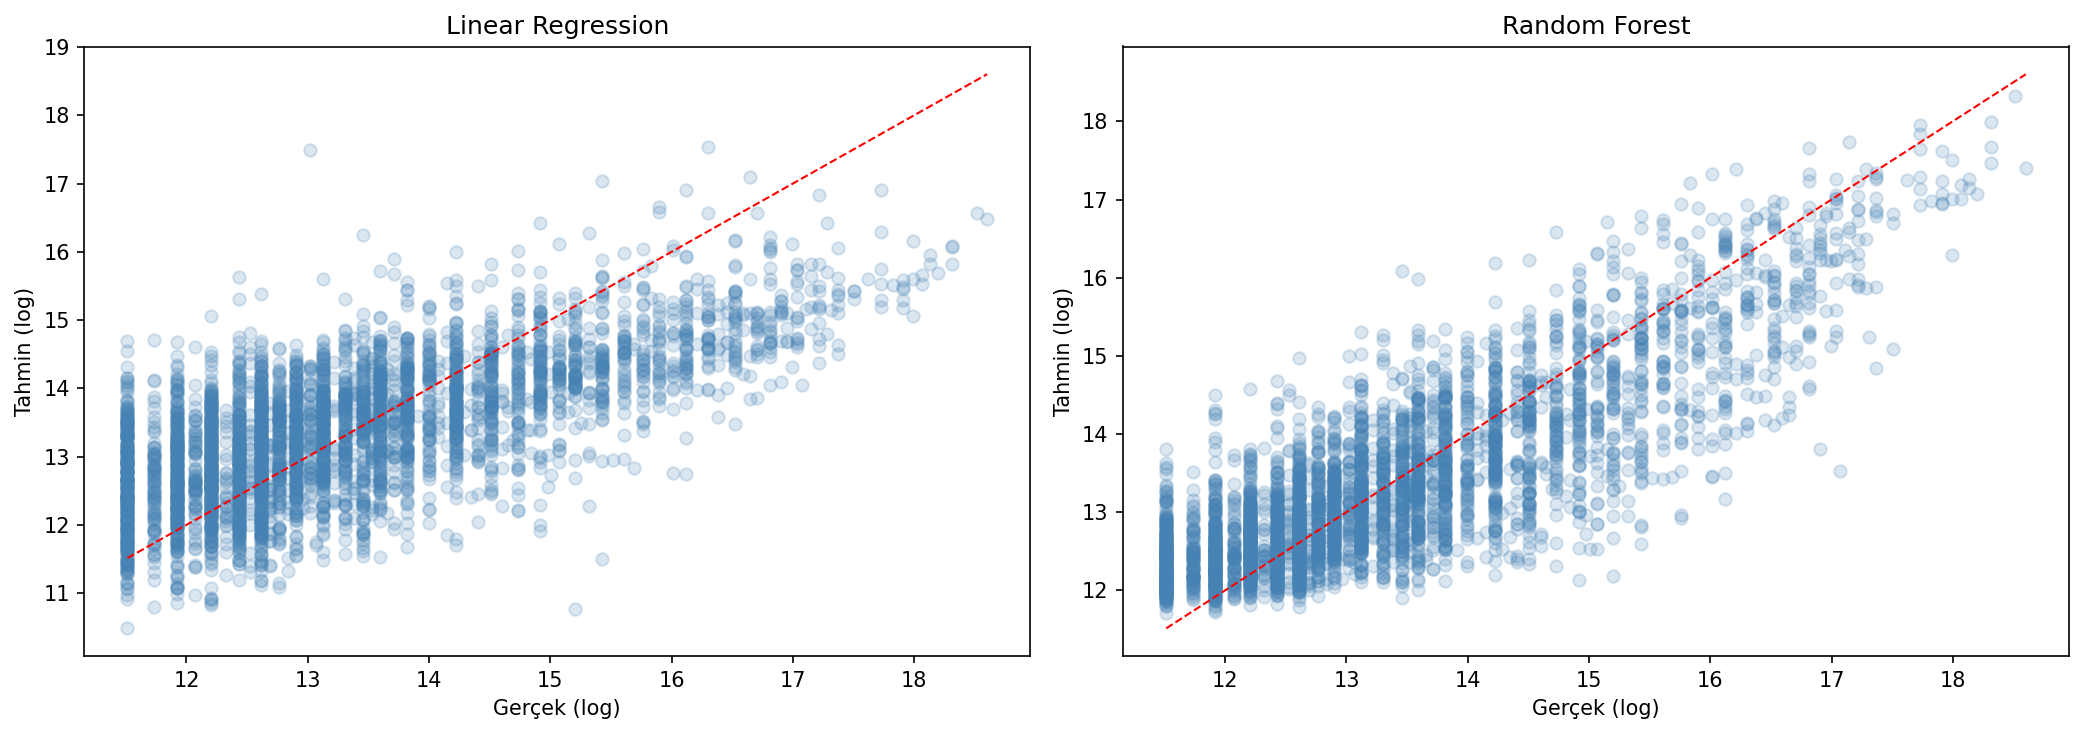
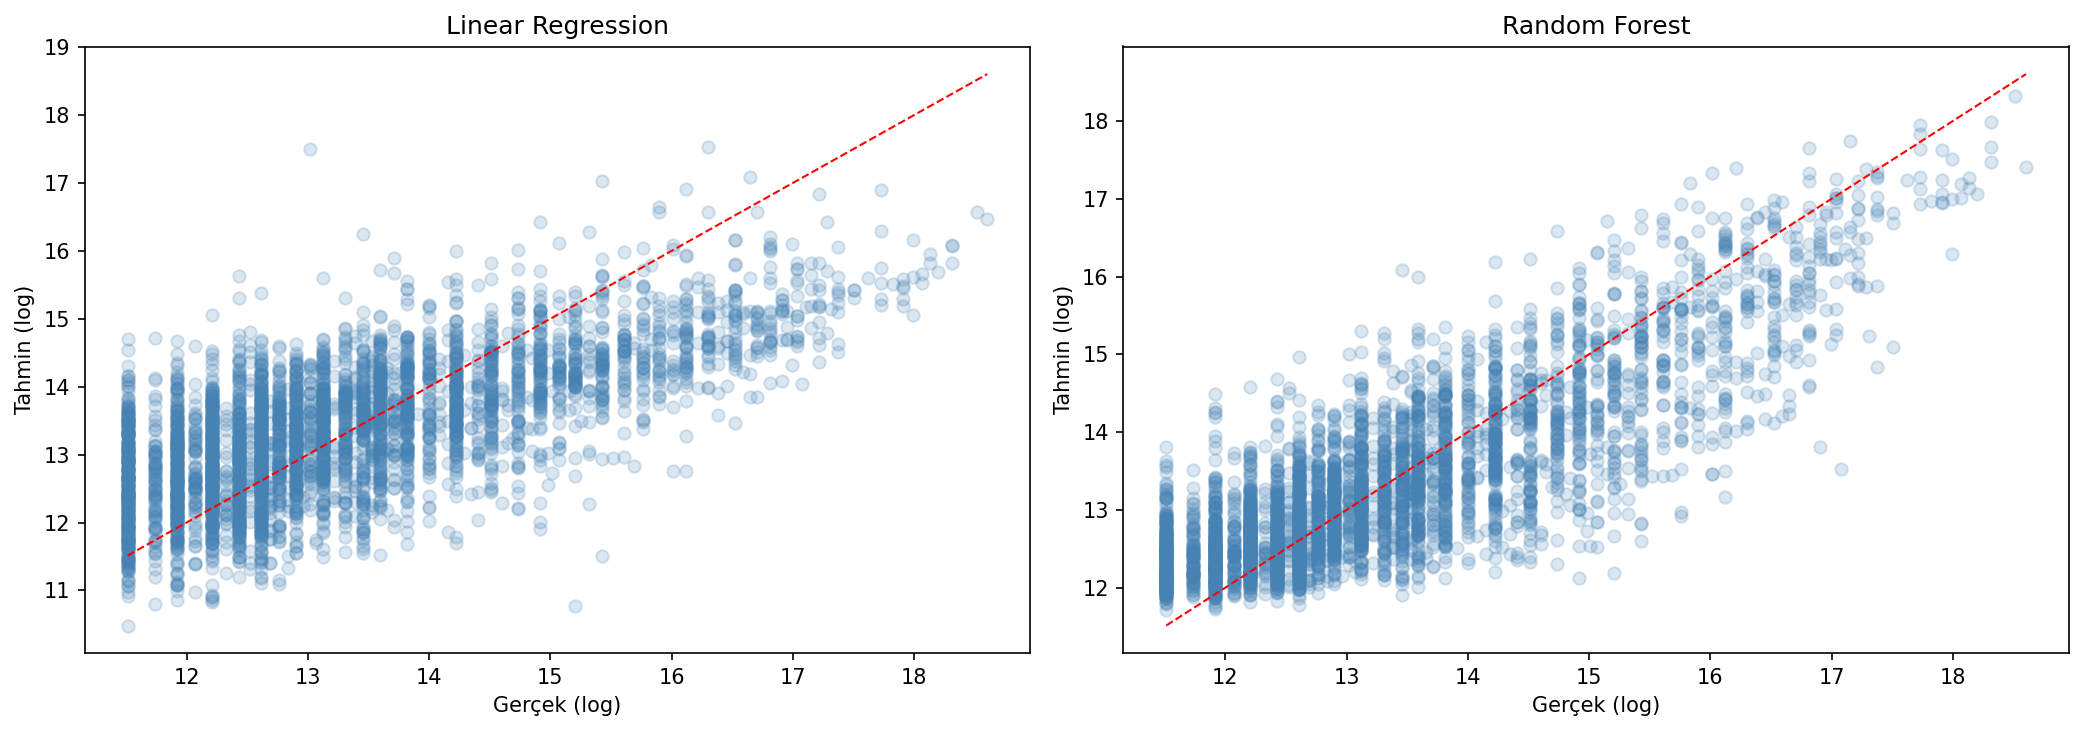
model kullanimi icin arayuz tasarlandi

diff --git a/web/app.py b/web/app.py
@@ -1,0 +1,134 @@
+import os
+import joblib
+import numpy as np
+import pandas as pd
+import streamlit as st
+
+from sklearn.preprocessing import LabelEncoder, StandardScaler
+
+BASE_DIR = os.path.dirname(os.path.dirname(os.path.abspath(__file__)))
+
+MODEL_PATH = os.path.join(BASE_DIR, "models", "random_forest.pkl")
+COLUMNS_PATH = os.path.join(BASE_DIR, "models", "feature_columns.pkl")
+DATA_PATH = os.path.join(BASE_DIR, "data", "processed", "merged.csv")
+
+st.set_page_config(
+    page_title="Futbolcu Piyasa Değeri Tahmini",
+    layout="centered"
+)
+
+st.title("Futbolcu Piyasa Değeri Tahmini")
+st.write("Futbolcu bilgilerine göre tahmini piyasa değerini hesaplar.")
+
+model = joblib.load(MODEL_PATH)
+feature_columns = joblib.load(COLUMNS_PATH)
+
+df = pd.read_csv(DATA_PATH)
+
+df = df.dropna(subset=["total_goals", "total_assists", "total_minutes", "age"])
+
+df["foot"] = df["foot"].fillna("unknown")
+df["height_in_cm"] = df["height_in_cm"].fillna(df["height_in_cm"].mean())
+df["sub_position"] = df["sub_position"].fillna(df["position"])
+df["country_of_citizenship"] = df["country_of_citizenship"].fillna("unknown")
+df["player_club_domestic_competition_id"] = df["player_club_domestic_competition_id"].fillna("unknown")
+
+df = df[df["position"] != "Missing"]
+df = df[df["height_in_cm"] >= 150]
+df = df[(df["age"] >= 15) & (df["age"] <= 45)]
+df = df[df["age"] < 38]
+df = df[df["market_value_in_eur"] >= 100_000]
+
+categorical_cols = [
+    "position",
+    "sub_position",
+    "foot",
+    "country_of_citizenship",
+    "player_club_domestic_competition_id"
+]
+
+encoders = {}
+
+for col in categorical_cols:
+    le = LabelEncoder()
+    le.fit(df[col].astype(str))
+    encoders[col] = le
+
+numeric_cols = [
+    "age",
+    "height_in_cm",
+    "total_goals",
+    "total_assists",
+    "total_matches",
+    "total_yellow_cards",
+    "total_red_cards",
+    "goals_per_match",
+    "assists_per_match",
+    "minutes_per_match"
+]
+
+scaler = StandardScaler()
+scaler.fit(df[numeric_cols])
+
+st.subheader("Futbolcu Bilgileri")
+
+position = st.selectbox("Mevki", sorted(df["position"].astype(str).unique()))
+sub_position = st.selectbox("Alt Mevki", sorted(df["sub_position"].astype(str).unique()))
+foot = st.selectbox("Ayak", sorted(df["foot"].astype(str).unique()))
+country = st.selectbox("Ülke", sorted(df["country_of_citizenship"].astype(str).unique()))
+competition = st.selectbox("Lig", sorted(df["player_club_domestic_competition_id"].astype(str).unique()))
+
+age = st.number_input("Yaş", min_value=15, max_value=37, value=24)
+height = st.number_input("Boy (cm)", min_value=150, max_value=220, value=180)
+
+total_matches = st.number_input("Toplam Maç", min_value=1, max_value=800, value=50)
+total_goals = st.number_input("Toplam Gol", min_value=0, max_value=500, value=10)
+total_assists = st.number_input("Toplam Asist", min_value=0, max_value=500, value=5)
+
+minutes_per_match = st.number_input("Maç Başına Dakika", min_value=0.0, max_value=120.0, value=75.0)
+
+total_yellow_cards = st.number_input("Sarı Kart", min_value=0, max_value=100, value=3)
+total_red_cards = st.number_input("Kırmızı Kart", min_value=0, max_value=20, value=0)
+
+goals_per_match = total_goals / total_matches
+assists_per_match = total_assists / total_matches
+
+raw_input = pd.DataFrame([{
+    "age": age,
+    "height_in_cm": height,
+    "total_goals": total_goals,
+    "total_assists": total_assists,
+    "total_matches": total_matches,
+    "total_yellow_cards": total_yellow_cards,
+    "total_red_cards": total_red_cards,
+    "goals_per_match": goals_per_match,
+    "assists_per_match": assists_per_match,
+    "minutes_per_match": minutes_per_match
+}])
+
+scaled_input = raw_input.copy()
+scaled_input[numeric_cols] = scaler.transform(raw_input[numeric_cols])
+
+input_data = scaled_input.copy()
+
+input_data["position"] = position
+input_data["position_encoded"] = encoders["position"].transform([position])[0]
+input_data["sub_position_encoded"] = encoders["sub_position"].transform([sub_position])[0]
+input_data["foot_encoded"] = encoders["foot"].transform([foot])[0]
+input_data["country_of_citizenship_encoded"] = encoders["country_of_citizenship"].transform([country])[0]
+input_data["player_club_domestic_competition_id_encoded"] = encoders["player_club_domestic_competition_id"].transform([competition])[0]
+
+for col in feature_columns:
+    if col not in input_data.columns:
+        input_data[col] = 0
+
+input_data = input_data[feature_columns]
+
+if st.button("Tahmin Et"):
+    log_prediction = model.predict(input_data)[0]
+    prediction = np.expm1(log_prediction)
+
+    st.success(f"Tahmini Piyasa Değeri: €{prediction:,.0f}")
+
+    st.write("Modele gönderilen veri:")
+    st.dataframe(input_data)

diff --git a/src/train.py b/src/train.py
@@ -6,6 +6,7 @@ from sklearn.ensemble import RandomForestRegressor
 from sklearn.model_selection import train_test_split, cross_val_score
 from sklearn.metrics import mean_absolute_error, mean_squared_error, r2_score
 import os
+import joblib
 
 BASE_DIR = os.path.dirname(os.path.dirname(os.path.abspath(__file__)))
 
@@ -277,6 +278,14 @@ def main():
 
     position_models, _ = train_position_models(df)
     print_position_predictions(df, position_models)
+
+    models_dir = os.path.join(BASE_DIR, "models")
+    os.makedirs(models_dir, exist_ok=True)
+
+    joblib.dump(rf, os.path.join(models_dir, "random_forest.pkl"))
+    joblib.dump(X.columns.tolist(), os.path.join(models_dir, "feature_columns.pkl"))
+
+    print("Model kaydedildi.")
 
 
 if __name__ == "__main__":
